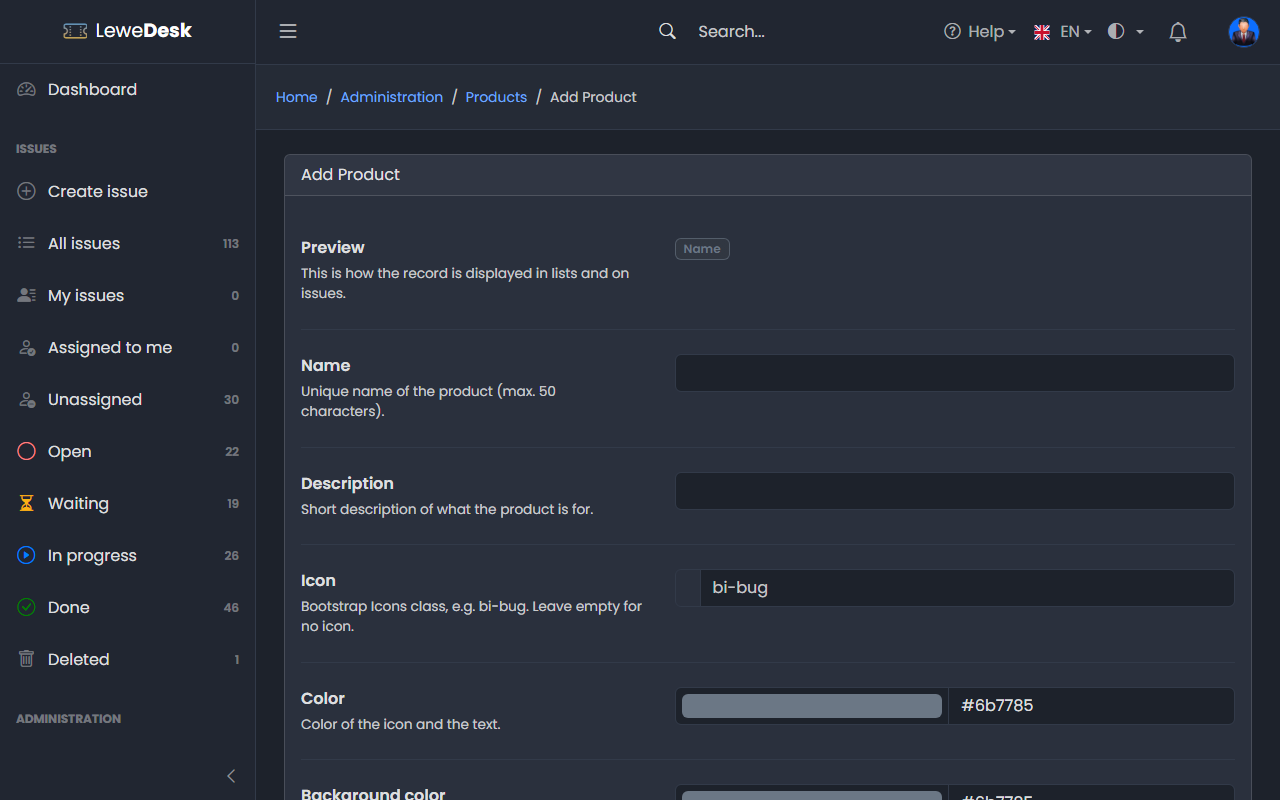
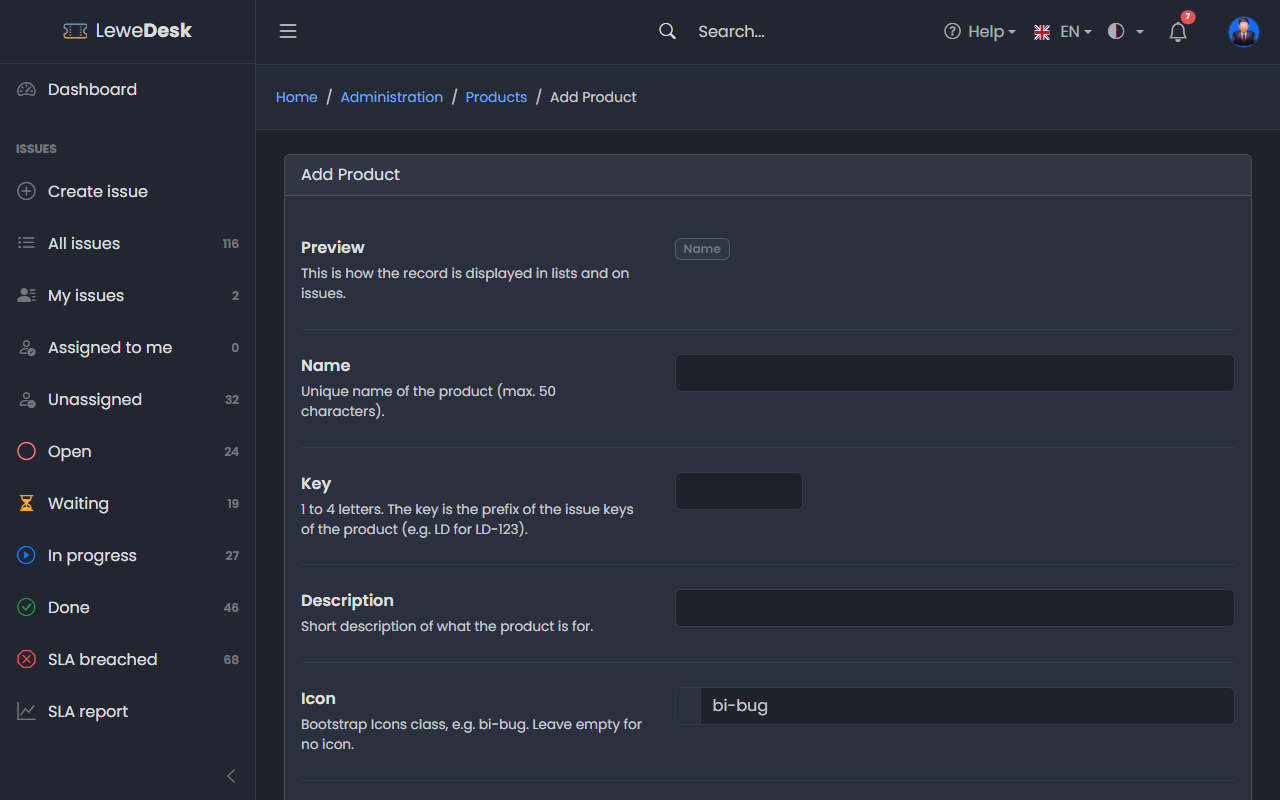
Update product pages

diff --git a/user-guide/issues/issue-actions.md b/user-guide/issues/issue-actions.md
@@ -44,7 +44,7 @@ The comment form at the bottom of the issue has a **Respond with comment** butto
 
 <figure><img src="../../.gitbook/assets/action-resolve.png" alt=""><figcaption></figcaption></figure>
 
-Select the resolution (mandatory) and optionally add a comment. The status changes to _Resolved_. The reporter is notified and can **Close** the issue to accept the solution or **Reopen** it.
+Select the resolution (mandatory), optionally the **fixed version** (the version of the product that contains the fix; the issue then appears in its [release notes](../release-notes.md)), and optionally add a comment. The field is only shown when the product has versions, and left empty it keeps the fixed version the issue has. The status changes to _Resolved_. The reporter is notified and can **Close** the issue to accept the solution or **Reopen** it.
 
 ## Close
 

diff --git a/administration/issues/products.md b/administration/issues/products.md
@@ -47,7 +47,11 @@ A product that issues still use cannot simply disappear, because every issue nee
 
 ## Versions
 
+<figure><img src="../../.gitbook/assets/product-versions.png" alt=""><figcaption></figcaption></figure>
+
 The **Versions** tab of a product lists its versions, the newest first (natural order: _1.10_ comes after _1.9_). Click **Add version** or the edit icon of a version. Requires the permission `manage_products` to change, and `view_issue` to read.
+
+<figure><img src="../../.gitbook/assets/product-version-edit.png" alt=""><figcaption></figcaption></figure>
 
 | Field        | Description                                                                                          |
 | ------------ | ---------------------------------------------------------------------------------------------------- |
